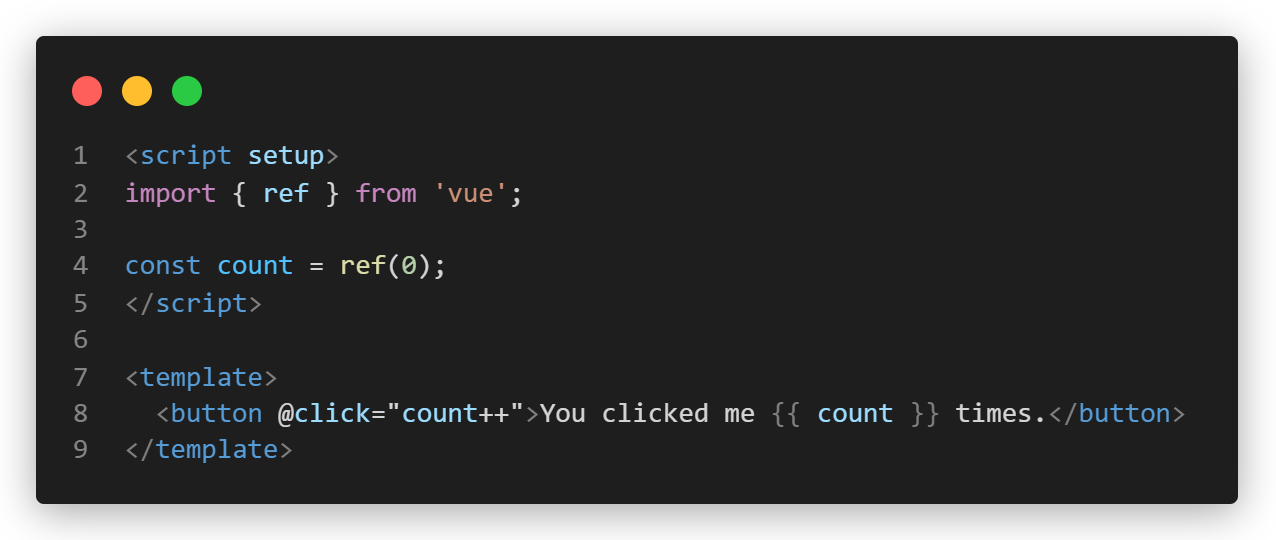
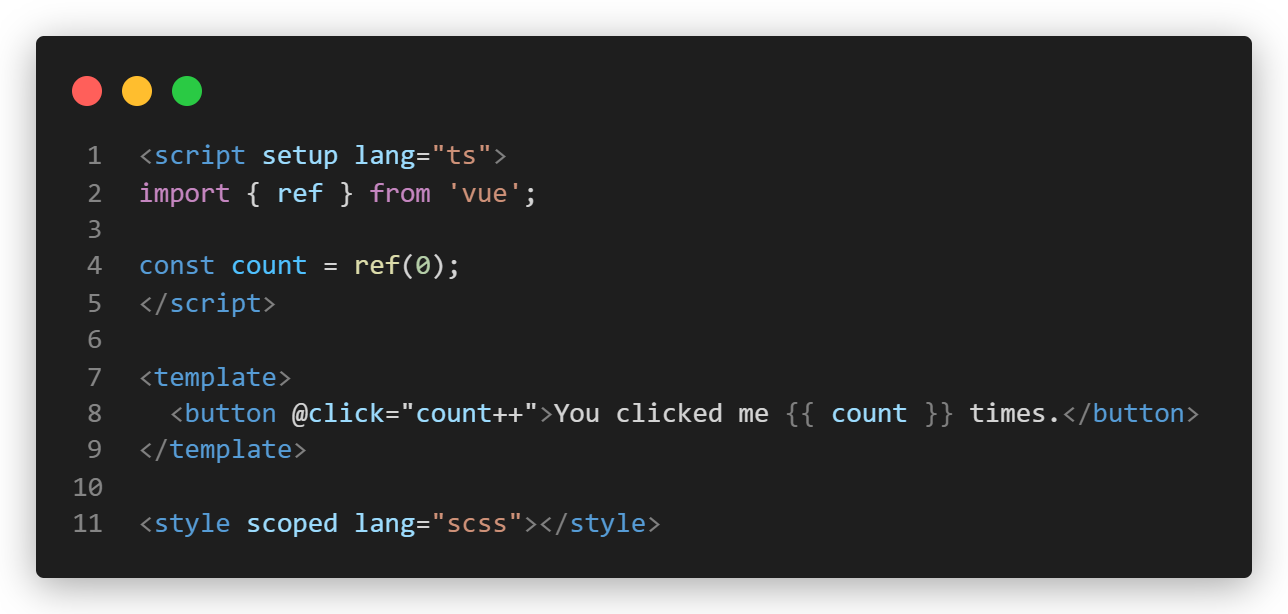
added composition api section

diff --git a/docs/content/technologien.tex b/docs/content/technologien.tex
@@ -4,6 +4,7 @@
 % TypeScript
 %
 \section{TypeScript}
+\label{sec:typescript}
 
 TypeScript ist eine Programmiersprache von Microsoft, die JavaScript um ein Typensystem erweitert. So können u.A. Fehler frühzeitig (während der Entwicklung) erkannt und behoben sowie Autovervollständigungen geboten werden. TypeScript-Code kann nicht direkt ausgeführt werden, sondern muss vorher zu JavaScript transpiliert werden. Jeder gültige JavaScript-Code ist dadurch auch gültiger TypeScript-Code \cites[vgl.][]{TypeScript}[vgl.][]{TypeScriptForJSDevelopers}.
 
@@ -29,9 +30,10 @@ Bestehende JavaScript-Projekte können inkrementell auf TypeScript umgestellt we
 % Sass
 %
 \section{Sass}
+\label{sec:sass}
 Sass ist eine Stylesheet-Sprache, die zu CSS kompiliert wird. Sie vereinfacht die Verwendung von CSS, indem weitere Funktionen, wie z.B. Verschachtlung, bereitgestellt werden. Dabei ist sie vollständig zu CSS kompatibel, d.h. jeder CSS-Code ist gültiger Sass-Code \cite[vgl.][]{SassDocs}. Die erweiterten Funktionen helfen dabei robusten und wartbaren CSS-Code zu schreiben \cite[vgl.][]{SassDocs}.
 
-Im Rahmen dieser Studienarbeit wird Sass verwendet. Abbildung \ref{fig:store-definition} zeigt einen Vergleich desselben Codes in CSS und Sass. Durch Sass kann hierbei redundanter Code verhindert werden. Für Interessierte sei für weitere Funktionen auf \cite{SassGuide} verwiesen.
+Abbildung \ref{fig:store-definition} zeigt einen Vergleich desselben Codes in CSS und Sass. Durch Sass kann hierbei redundanter Code verhindert werden. Für Interessierte sei für weitere Funktionen auf \cite{SassGuide} verwiesen.
 
 \begin{figure}[!htb]
   \begin{minipage}{0.48\textwidth}
@@ -47,13 +49,16 @@ Im Rahmen dieser Studienarbeit wird Sass verwendet. Abbildung \ref{fig:store-def
 \end{figure}
 
 %
-% Vue.js
+% Vue
 %
 \section{Vue}
 
 Für die Erstellung der Benutzeroberfläche (im Folgenden \glqq Frontend\grqq{} genannt) wird Vue verwendet. Vue ist ein progressives JavaScript-Framework, das die Frontend-Entwicklung vereinfachen soll. Progressiv bedeutet hierbei, das es für das gesamte Frontend oder auch nur für Teile dessen verwendet werden kann. Vue kann folglich mit anderen Technologien verwendet oder Schritt-für-Schritt (progressiv) in bereits vorhandene Projekte integriert werden \cite[vgl.][]{VueIntroduction}.
 
-\subsection{Komponenten}
+%
+% Vue - Grundlagen von Komponenten
+%
+\subsection{Grundlagen von Komponenten}
 \begin{figure}[H]
   \includegraphics[width=0.9\textwidth]{images/vue-components.png}
   \centering
@@ -65,18 +70,41 @@ Vue-Komponenten erlauben die Unterteilung des Frontends in unabhängige, isolier
 
 Vue bietet mehrere Möglichkeiten, um eine Komponente zu definieren. Im Rahmen dieser Studienarbeit werden sogenannte \aclu{SFC} (\acs{SFC}) verwendet (siehe Abbildung \ref{fig:vue-example}). Jede Komponente wird hierbei in einer Datei mit der Dateiendung \lstinline{.vue} definiert. Nachdem die Komponente in einer anderen Datei importiert wurde, kann sie wie ein herkömmliches HTML-Element verwendet werden (siehe Abbildung \ref{fig:vue-example-usage}) \cite[vgl.][]{VueComponentBasics}.
 
-\begin{figure}[H]
+\begin{figure}[!htb]
   \includegraphics[width=0.9\textwidth]{images/vue-example.png}
   \centering
   \caption[Beispiel einer Vue-Komponente]{Beispiel einer Vue \ac{SFC} \cite{VueComponentBasics}}
   \label{fig:vue-example}
 \end{figure}
 
-\begin{figure}[H]
+\begin{figure}[!htb]
   \includegraphics[width=0.9\textwidth]{images/vue-example-usage.png}
   \centering
-  \caption[Verwendung einer Vue-Komponente]{Verwendung einer Vue \ac{SFC} \cite[vgl.][]{VueComponentBasics}}
+  \caption[Verwendung einer Vue-Komponente]{Verwendung einer Vue \ac{SFC} \cites[vgl.][]{VueComponentBasics}[vgl.][]{VueSFC}}
   \label{fig:vue-example-usage}
+\end{figure}
+
+\textbf{Sprach-Blöcke} \\
+In \acp{SFC} können standardmäßig die drei Sprach-Blöcke \lstinline{<template>} (HTML), \lstinline{<script>} (JavaScript) und \lstinline{<style>} (CSS) verwendet werden (siehe Abbildung \ref{fig:vue-example}), die den entsprechenden Code der Komponente beinhalten. Mit dem \lstinline{scoped}-Attribut des \lstinline{<style>}-Blocks kann das CSS für die Komponente gekapselt werden, d.h. es wird nur innerhalb der Komponente angewendet \cite[vgl.][]{VueSFC}.
+
+\textbf{TypeScript und Sass} \\
+Für die Entwicklung des Frontends sollen TypeScript und Sass verwendet werden, die bereits in Kapitel \ref{sec:typescript} und \ref{sec:sass} erläutert wurden. So soll sichergestellt werden, dass Fehler bereits während der Entwickler behoben werden können und ein robustes, wartbares Frontend entsteht.
+
+Um TypeScript in einer \ac{SFC} verwenden zu können, muss der \lstinline{<script>}-Block (siehe Abbildung \ref{fig:vue-example}) um das Attribut \lstinline{lang="ts"} erweitert werden. Sass kann nach der Erweiterung des \lstinline{<style>}-Blocks um das Attribut \lstinline{lang="scss"} verwendet werden \cite[vgl.][]{VueSFC}.
+
+%
+% Vue - Composition API
+%
+\subsection{Composition API}
+Vue-Komponenten können (innerhalb des \lstinline{<script>}-Blocks) entweder mit Vue's Options API oder mit der Composition API erstellt werden. Aufgrund der Empfehlung von Vue wird im Rahmen dieser Studienarbeit die Composition API in Verbindung mit \acp{SFC} verwendet. Des Weiteren wird das \lstinline{setup}-Attribut des \lstinline{<script>}-Blocks ergänzt (siehe Abbildung \ref{fig:vue-example}), wodurch der Umgang mit der Composition API erleichtert wird. Unter Anderem werden alle Imports sowie Variablen für den \lstinline{<template>}-Block bereitgestellt \cite[vgl.][]{VueIntroduction}.
+
+In Abbildung \ref{fig:vue-example} wird bereits die Composition API verwendet. Im Vergleich dazu zeigt Abbildung \ref{fig:vue-example-options-api} dieselbe Komponente unter Verwendung der Options API.
+
+\begin{figure}[!htb]
+  \includegraphics[width=0.9\textwidth]{images/vue-example-options-api.png}
+  \centering
+  \caption[Beispiel einer Vue-Komponente mit Options API]{Beispiel einer Vue-Komponente mit Options API \cites[vgl.][]{VueIntroduction}[vgl.][]{VueSFC}}
+  \label{fig:vue-example-options-api}
 \end{figure}
 
 %

diff --git a/docs/content/Einleitung.tex b/docs/content/Einleitung.tex
@@ -1,3 +1,3 @@
 \chapter{Einleitung}
 
-Einleitung
+Für diese Studienarbeit werden Grundkenntnisse von HTML, CSS, JavaScript und Node bzw. npm vorausgesetzt.
